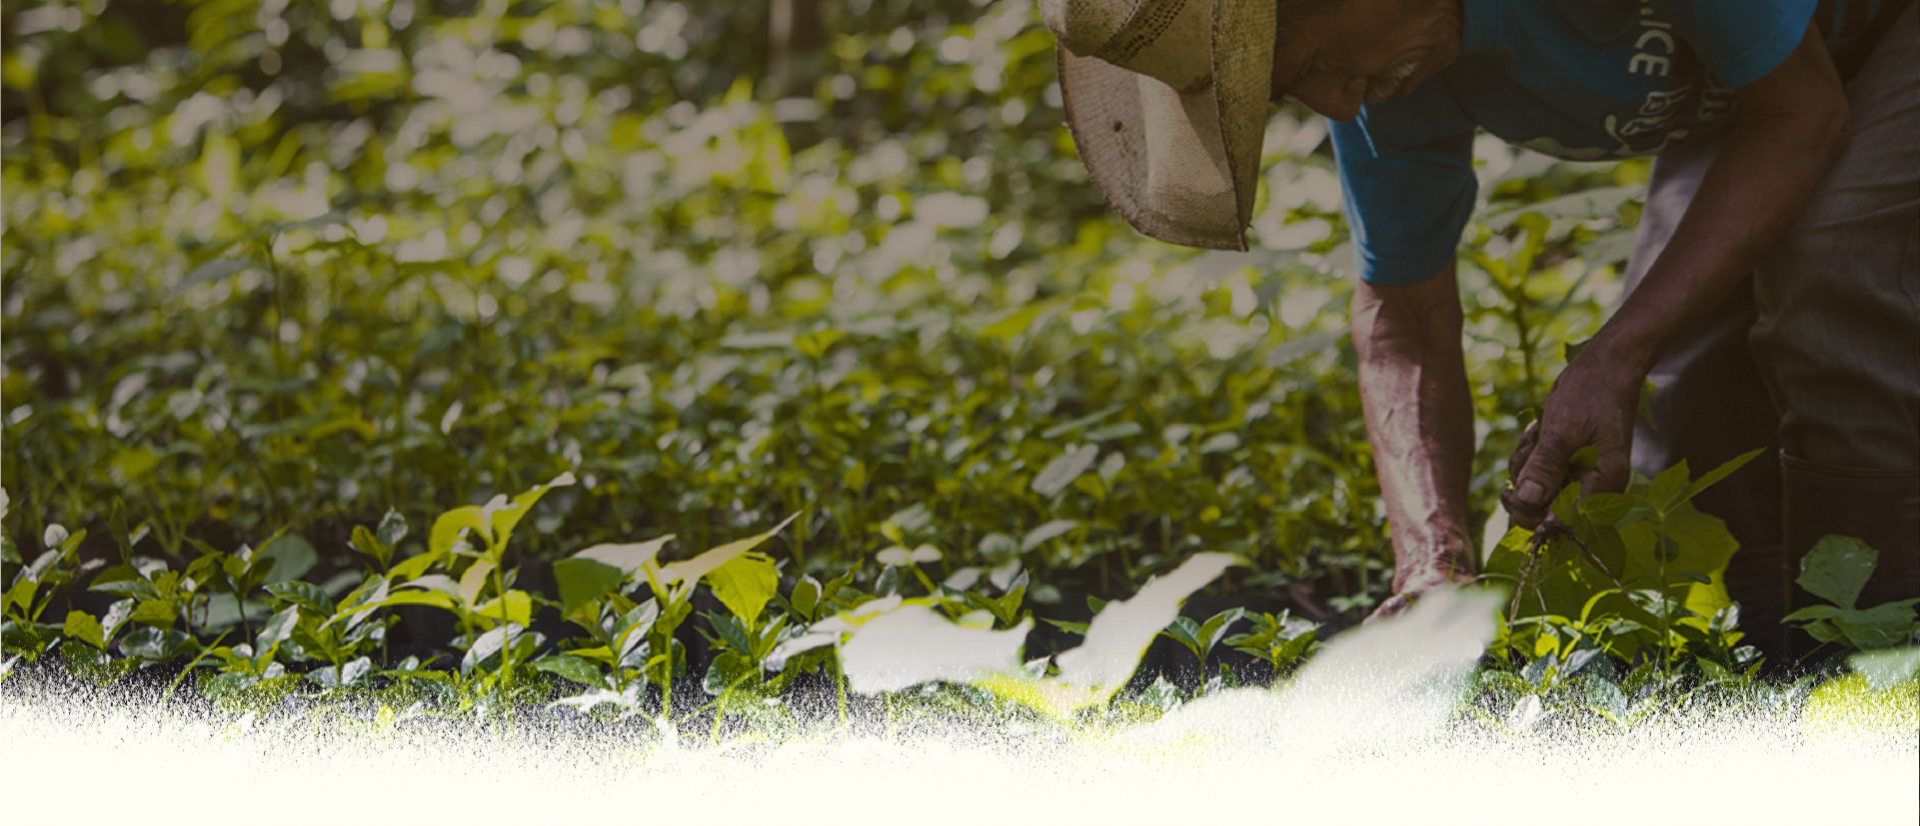
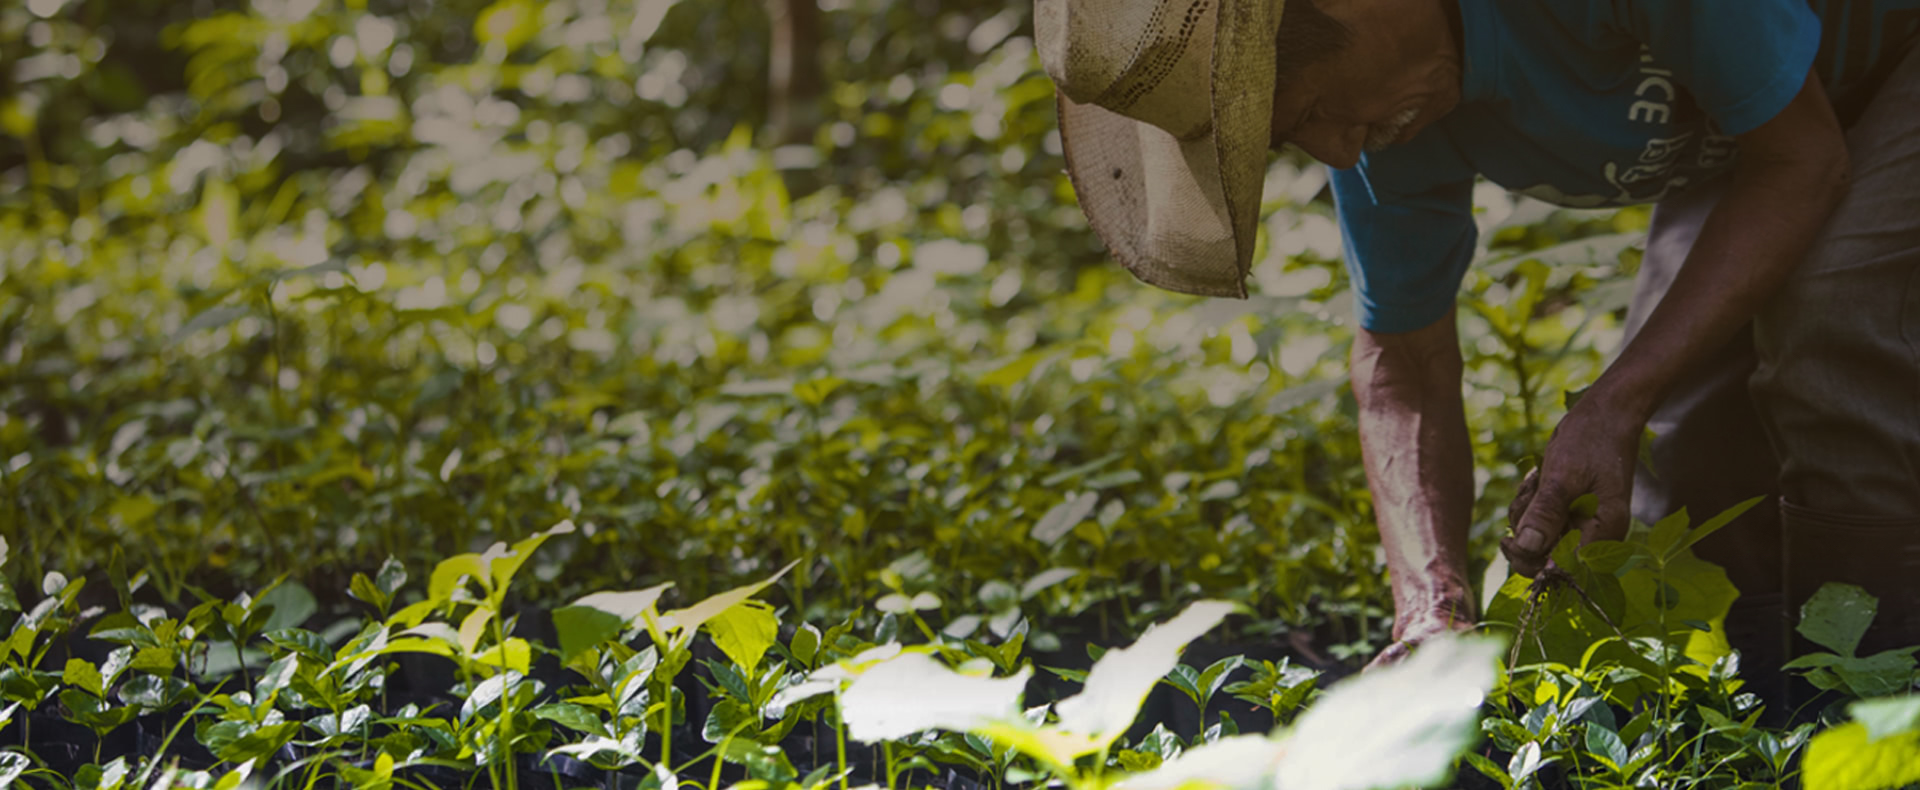
agregué a la carpeta de fotos fades y imagen principal

diff --git a/style.css b/style.css
@@ -170,11 +170,12 @@ h1 {
 header {
     padding-bottom: 85px;
     /*noinspection CssRedundantUnit,CssRedundantUnit*/
-    background: url(images/inicio/header_café_tseltal_solidario_trabajo_digno_batsil_maya.jpg) 64% 0%/289% no-repeat
+    background:  url(images/fade/header_fade_light_batsil_maya.png)0% 100%/182% no-repeat,
+                 url(images/inicio/header_café_tseltal_solidario_trabajo_digno_batsil_maya.jpg) 61% 0%/289% no-repeat
+               
 }
 header a {
     color: var(--light);
- no-repeat;
 }
 
 header a {
@@ -280,7 +281,7 @@ header a {
     color: var(--light);
     padding: 22px;
     font-size: 12px;
-    background: url(images/inicio/footer_background_granos_de_cafe.png) 0 0%/570% no-repeat;
+    background: url(images/footer/footer_granos_de_cafe_batsil_maya.jpg) 0 0%/100% no-repeat;
 }
 .foot li {
     padding: 6px;

diff --git a/index.html b/index.html
@@ -169,9 +169,7 @@
         <div class="gridthree2">
         <article>
             <h3>Nosotros</h3>
-            <p><strong></strong><br>
-                dictum, tellus orci bibendum nunc, id malesuada arcu quam</p>
-                
+            <p>Somos la planta transformadora de café.</p>   
             <a class="button red bold">Conócenos</a>
         </article>
         <article>
